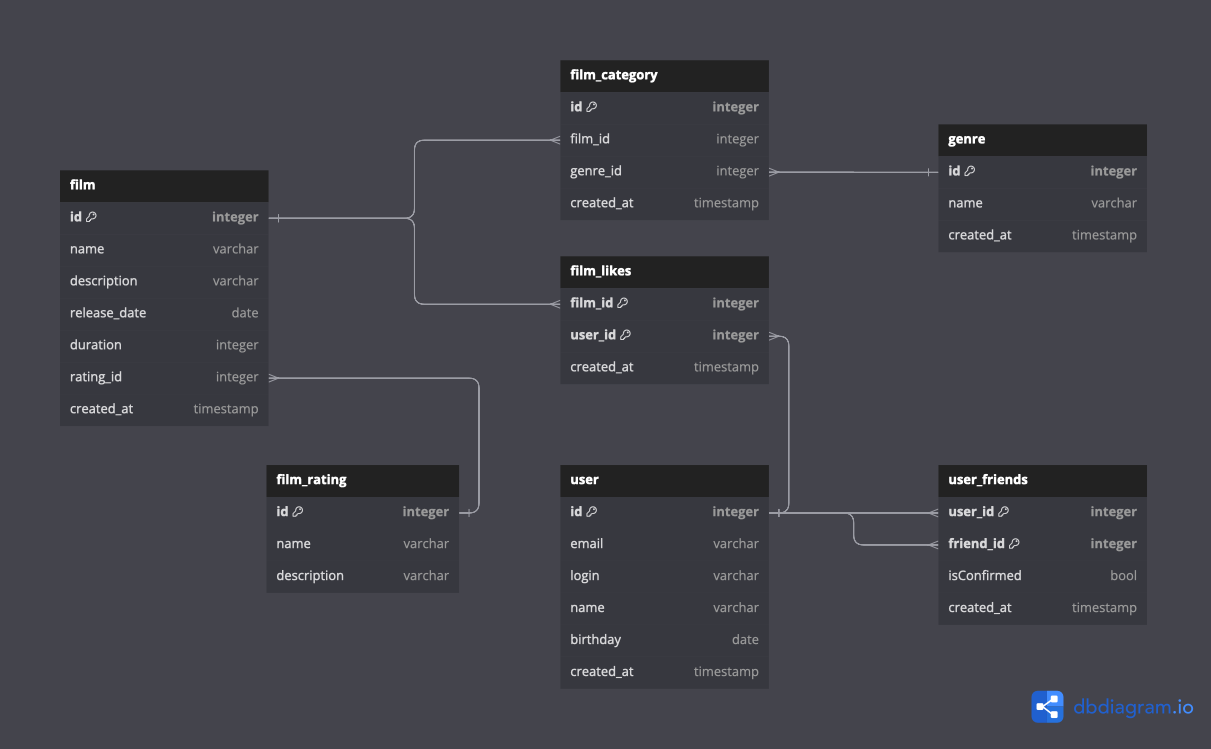
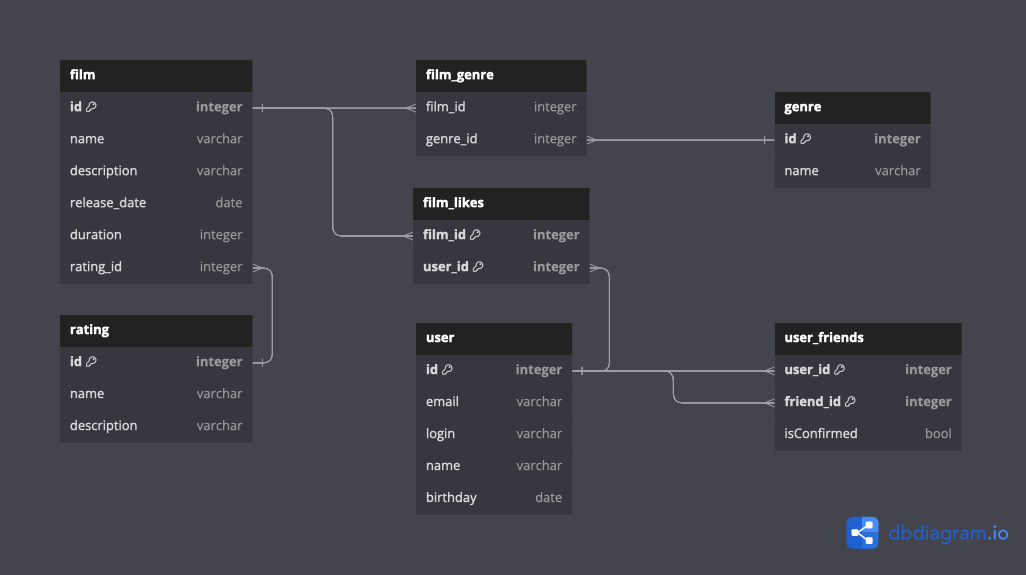
Sprint 12, intermediate solution for p2p.
Cхема DB, примеры SQL запросов согласно бизнес-логике. Таблицы схемы созданы, запросы запускал. Ошибки тем не менее, возможны.

diff --git a/README.md b/README.md
@@ -4,13 +4,47 @@ Template repository for Filmorate project.
 ## Схема базы данных filmorate
 ![filmorate](src/main/resources/db-scheme/filmorate-db-scheme.png)
 
-## Часть SQL запросов
+## SQL запросы
 
 >#### получение всех фильмов
-
 ```sql
 SELECT name
 FROM film;
+```
+---
+>#### все фильмы с рейтингом
+```sql
+SELECT f."name" AS film,
+       fr.name AS rating
+FROM public.film f
+         JOIN public.film_rating fr ON f.id = fr.id;
+```
+---
+>#### все жанры выбранного фильма
+```sql
+SELECT f."name",
+       g.name
+FROM public.genre g
+JOIN public.film_category fc ON g.id = fc.genre_id
+JOIN public.film f ON f.id = fc.film_id
+WHERE f.id = 5;
+```
+---
+>#### пользователи, которые поставили лайк Фильму
+```sql
+SELECT u."name"
+FROM public."user" u
+JOIN public.film_likes fl ON u.id = fl.user_id
+JOIN public.film f ON f.id = fl.film_id
+WHERE f.id = 4;
+
+SELECT u."name"
+FROM public."user" u
+JOIN public.film_likes fl ON u.id = fl.user_id
+WHERE fl.film_id IN
+    (SELECT id
+     FROM public.film f
+     WHERE f.name = 'The Shawshank Redemption');
 ```
 ---
 >#### топ N наиболее популярных фильмов
@@ -24,12 +58,11 @@ ORDER BY likes DESC
 LIMIT 5;
 ```
 ---
->#### всех пользователей
+>#### все пользователи
 ```sql
 SELECT *
 FROM public.user;
 ```
-
 ---
 >#### список друзей пользователя по id
 ```sql
@@ -41,9 +74,8 @@ WHERE id IN
      LEFT JOIN public.user_friends uf ON u.id = uf.user_id
      WHERE u.id = 1);
 ```
-
 ---
->#### список общих друзей с другим пользователем
+>#### список общих друзей двух пользователей
 ```sql
 --через union
 SELECT name
@@ -74,6 +106,15 @@ FROM public.user u
          INNER JOIN cte ON uf.friend_id = cte.friend_id
          INNER JOIN public.user u1 ON u1.id = uf.friend_id
 WHERE u.id = 3;
+
+-- join
+select uf1.user_id, uf2.friend_id, u."name"
+from public."user" u
+         join public.user_friends uf1 on u.id = uf1.user_id
+         join public.user_friends uf2 on u.id = uf2.friend_id
+where u.id not in (1,3)
+group by uf1.user_id, uf2.friend_id, u."name"
+having count(uf2.friend_id) > 1
 ```
 ---
 
